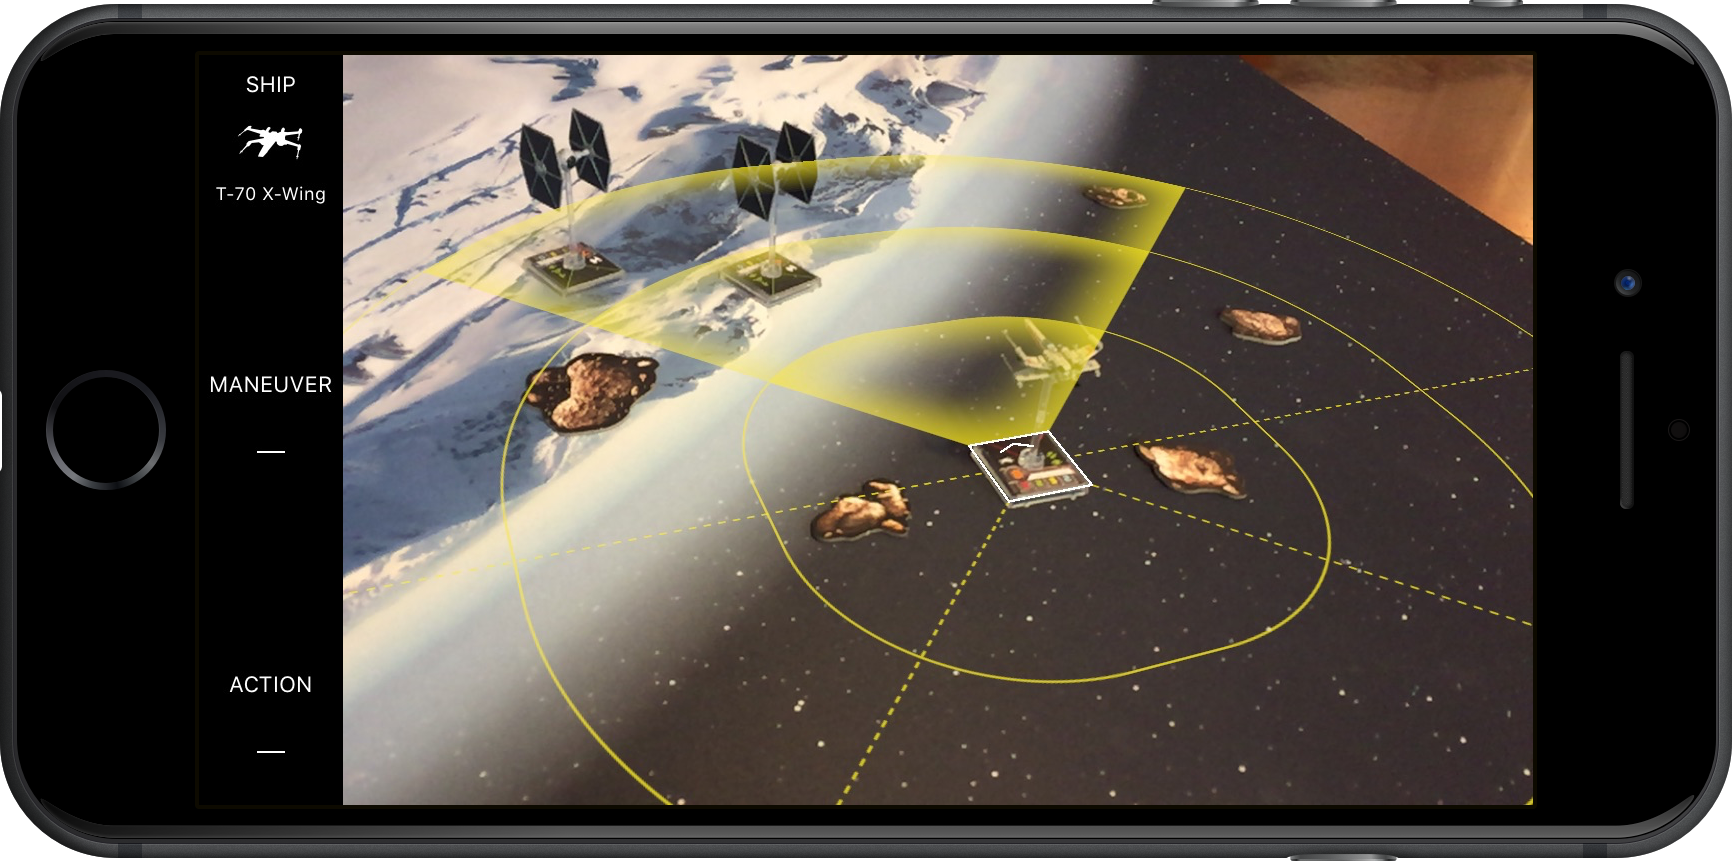
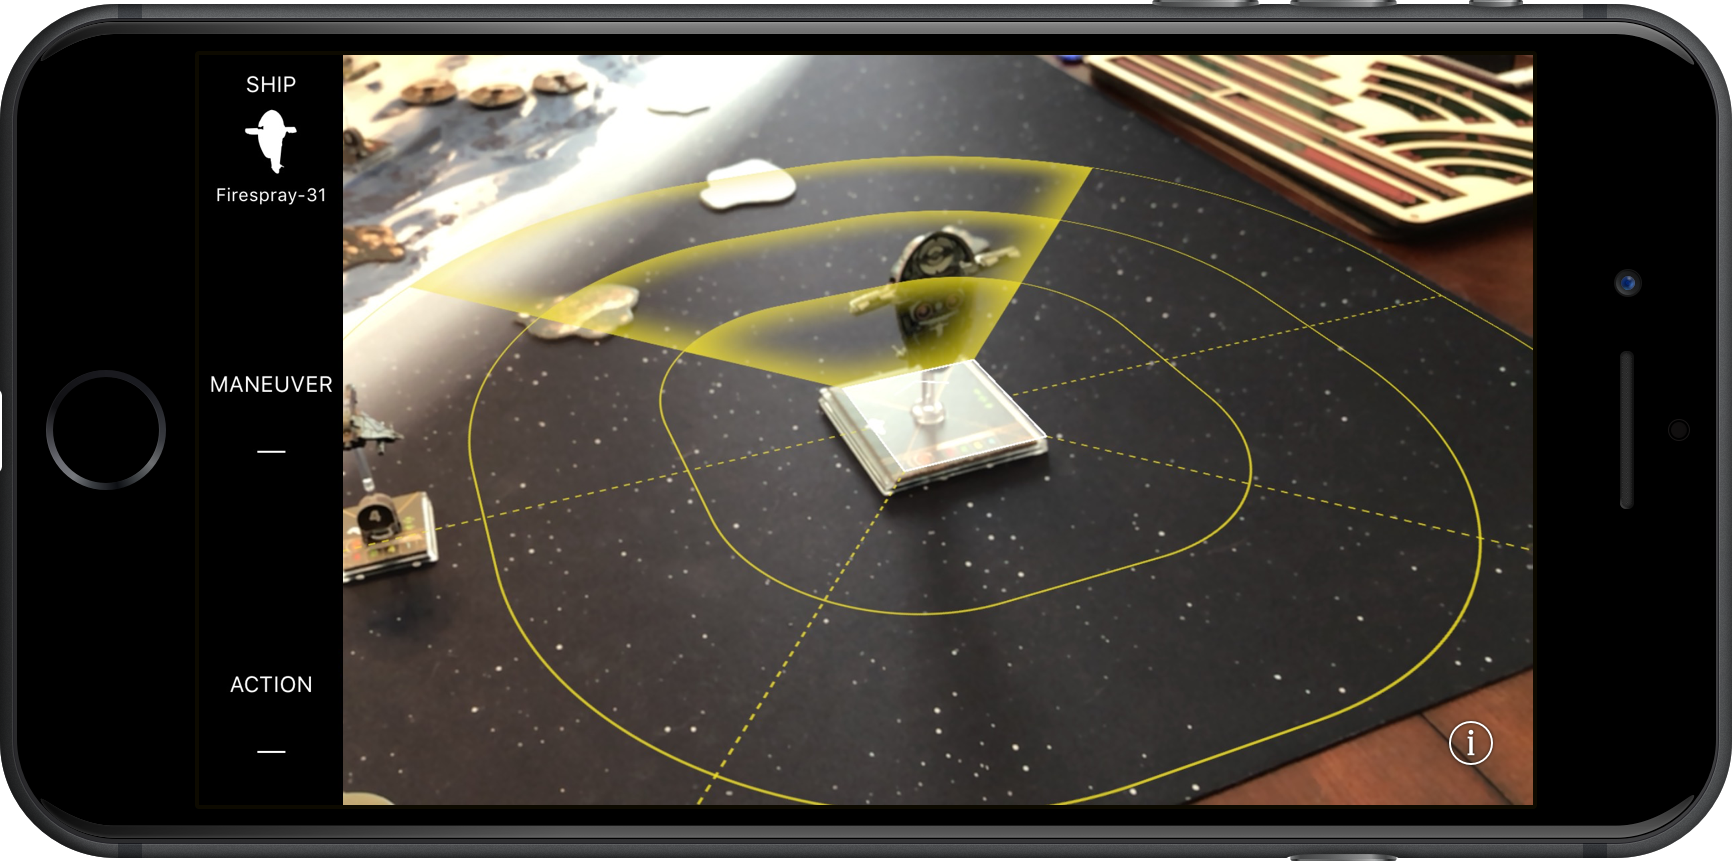
Update app name, site, & screenshots

diff --git a/README.md b/README.md
@@ -1,28 +1,17 @@
-X-Wing Assist is an iOS app that lets you preview maneuvers for the X-Wing Miniatures Game directly in augmented reality on your iOS device.
+**DialVision** is an iOS app that lets you preview maneuvers for the X-Wing Miniatures Game directly in augmented reality on your iOS device.
 
 <img src="img/screenshot-maneuver.png" width="577px"/>
 
-Visualize a ship's firing range and where it will be positioned after executing the selected maneuver, boost, barrel roll, or SLAM.
+
+See which maneuver to use to avoid collisions. Visualize a ship's firing range and where it will be positioned after executing the selected maneuver, boost, barrel roll, or SLAM.
 
 <img src="img/screenshot-action.png" width="577px"/>
 
-[//]: # (Tap on the screen to identify your ship's position in augmented reality, select which ship you're previewing in the menu, then select the maneuver and action you wish to preview. Determine what positions will be within firing range and which maneuvers will avoid obstacle collisions.)
 
-# Become a Beta Tester
+Select which ship you're flying and the maneuver or action you want to preview.
 
-If you have an iOS device that meets all of the requirements below, you can sign up below to become a Beta Tester. Provide your email address and you will be contacted with instructions to download a Beta version of the app.
-
-<a href="https://goo.gl/forms/6Koja2biJ3sND8Vd2" style="display: inline-block; padding: 15px; color: white; background-color:#63C0F5; font-size: 16px; border-radius: 5px; text-decoration: none;">Sign Up to Beta Test</a>
-
-## Requirements
-X-Wing Assist uses Apple's latest ARKit technology which requires [iOS 11 Beta](https://beta.apple.com/sp/betaprogram/) and one of the following iOS devices:
-- iPhone SE
-- iPhone 6s
-- iPhone 6s Plus
-- iPhone 7
-- iPhone 7 Plus
-- iPad Pro (All three variants and models)
-- New 9.7-inch iPad (2017)
+<img src="img/screenshot-ship-picker.png" width="577px"/>
+<img src="img/screenshot-maneuver-picker.png" width="577px"/>
 
 ---
 
@@ -30,7 +19,7 @@ X-Wing Assist uses Apple's latest ARKit technology which requires [iOS 11 Beta](
 
 X-Wing: The Miniatures Game is a trademark of [Fantasy Flight Games](http://www.fantasyflightgames.com/).
 
-X-Wing Assist is the work of a fan, and is not endorsed by Fantasy Flight Games, Lucasfilm Ltd. or Twentieth Century Fox and is intended for entertainment and information purposes only.
+DialVision is the work of a fan, and is not endorsed by Fantasy Flight Games, Lucasfilm Ltd. or Twentieth Century Fox and is intended for entertainment and information purposes only.
 
 The names and icons of Star Wars characters, vehicles and any other Star Wars related items are registered trademarks and/or copyrights of Lucasfilm Ltd, or their respective trademark and copyright holders.
 
